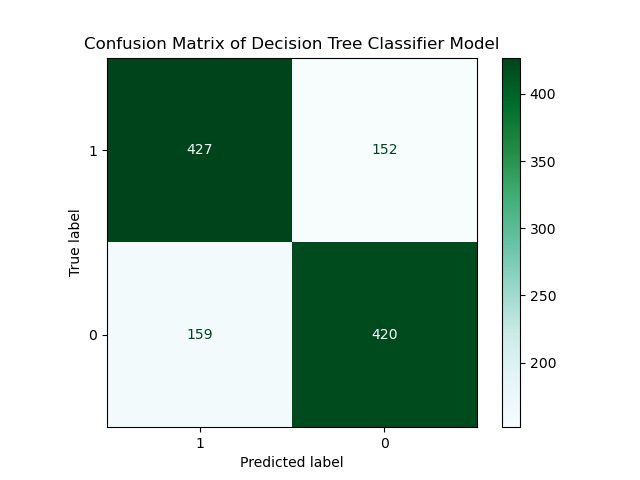
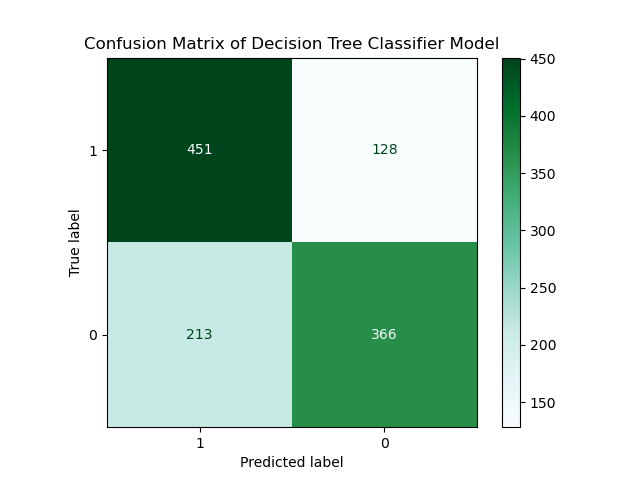
feat: added second machine learning model, Random Forest Classifier.

diff --git a/machine_learning/model_eval_helpers.py b/machine_learning/model_eval_helpers.py
@@ -66,7 +66,7 @@ def print_stats(model, X_train, y_train, X_test, y_test, selected_features, clas
     print_feature_importances(model, selected_features)
 
     # plot confusion matrix
-    plot_confusion_matrix(model, X_test, y_test, class_labels)
+    plot_confusion_matrix(model, X_test, y_test, class_labels, rf)
 
 """Function that returns the Top_F (a desired number of features) features that yield the highest mutual information 
 with respect to the class label. 

diff --git a/machine_learning/machine_learning_models.py b/machine_learning/machine_learning_models.py
@@ -240,6 +240,7 @@ def random_forest_tree_model():
         X_test, y_test,
         selected_features,
         [1, 0],
+
         rf=True)
 
 def main():
